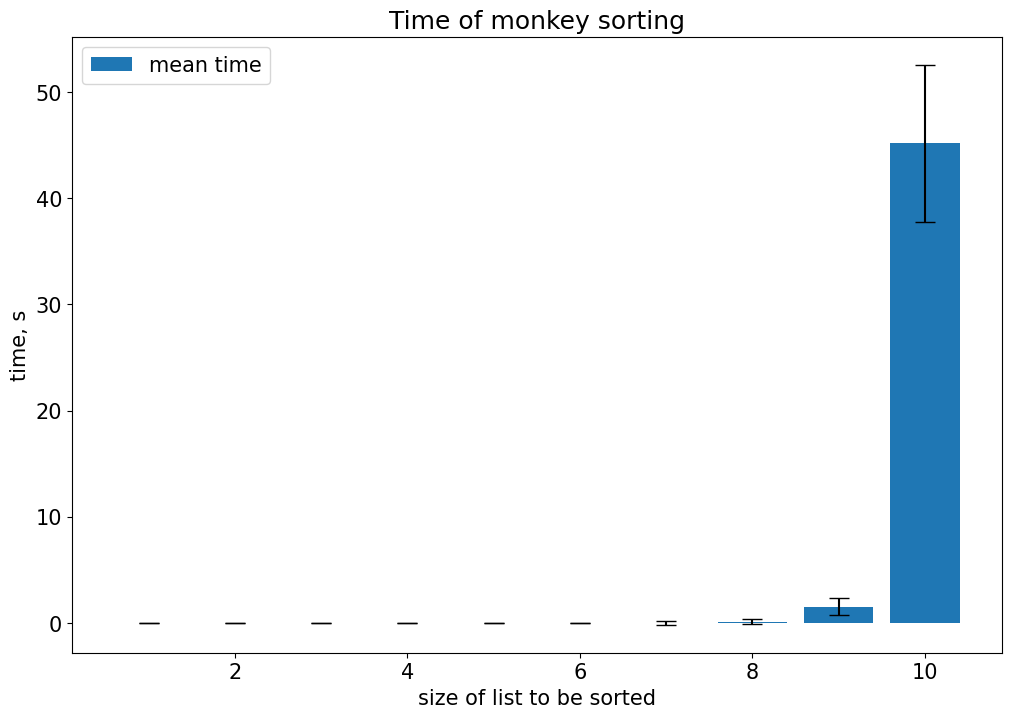
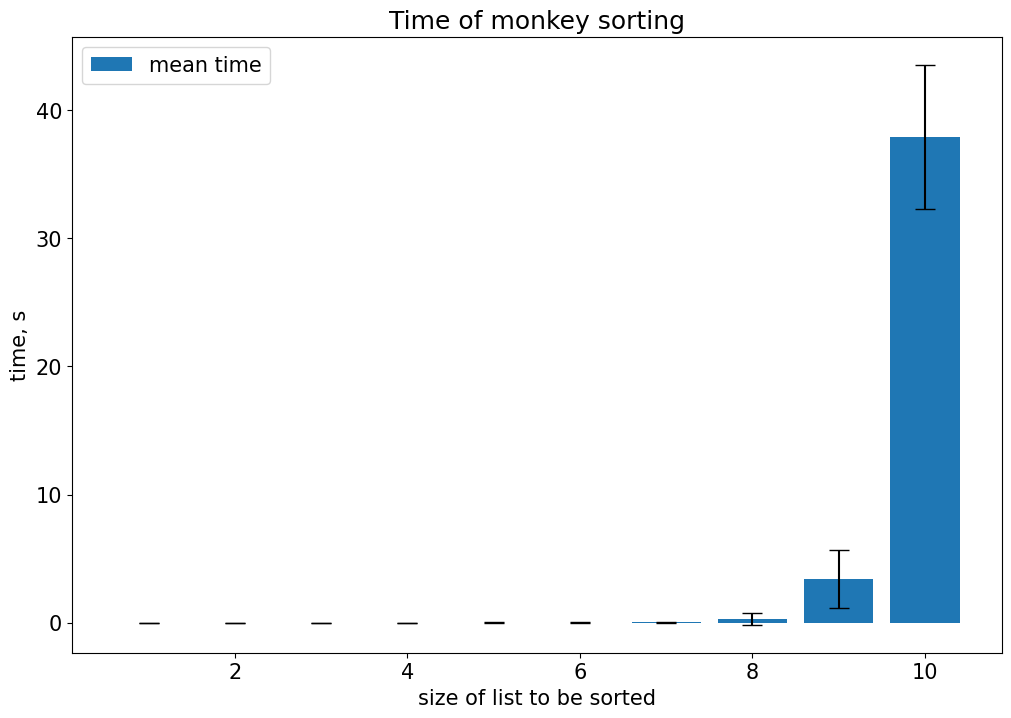
Fixed ZeroDivisionError

diff --git a/2_sort_time.py b/2_sort_time.py
@@ -39,7 +39,7 @@ def measure_monkey_sort(n):
 
 
 monkey_sort_10 = measure_monkey_sort(10)
-monkey_sort_10['errors'] = list(monkey_sort_10['sd_time']/np.sqrt(monkey_sort_10['mean_time']))
+monkey_sort_10['errors'] = [b / m for b, m in zip(monkey_sort_10['sd_time'], np.sqrt(monkey_sort_10['mean_time']))]
 
 # image size
 plt.figure(figsize=(12, 8))
@@ -54,7 +54,7 @@ plt.bar(xs, bars, width=0.8, yerr=errors, capsize=7, label='mean time')
 
 plt.title('Time of monkey sorting')
 
-# add latex by $$
+# add labels
 plt.xlabel('size of list to be sorted')
 plt.ylabel('time, s')
 
@@ -62,4 +62,3 @@ plt.ylabel('time, s')
 plt.legend()
 
 plt.savefig('2_sort_time.png')
-
